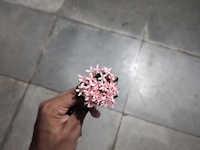
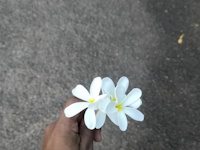
Add files via upload

diff --git a/index.html b/index.html
@@ -73,11 +73,10 @@
         <div id="screen1" class="screen active">
             <div class="content-wrapper">
                 <div class="opening-lines">
-                    <p class="line fade-in-up" style="animation-delay: 0.5s;">Heyyy Sandhya,</p>
-                    <p class="line fade-in-up" style="animation-delay: 1s;"> You were right, it has been 6 years since we met. Today is the day!</p>
-                    <p class="line fade-in-up" style="animation-delay: 1s;">You mean more to me than I can ever put in words or in my poems. I do not expect you to understand them, but please do give a read.</p>
-                    <p class="line fade-in-up" style="animation-delay: 1s;">"If love requires a reason, it dies when the reason dies."</p>
-                    <p class="line fade-in-up" style="animation-delay: 2s;">I love you. 🫂</p>
+                    <p class="line fade-in-up" style="animation-delay: 0.5s;">SANDHYAAAAA,</p>
+                    <p class="line fade-in-up" style="animation-delay: 1s;">Every time you laugh, it feels like the world pauses.</p>
+                    <p class="line fade-in-up" style="animation-delay: 1s;">Every little thing you do makes my day brighter.</p>
+                    <p class="line fade-in-up" style="animation-delay: 2s;">And that’s why I love you so so so much. 🌼🫂</p>
                 </div>
                 <button class="romantic-btn fade-in-up" style="animation-delay: 2.5s;" onclick="showScreen(2)">
                     Continue
@@ -90,21 +89,21 @@
             <div class="content-wrapper">
                 <div class="poem-container">
                     <div class="stanza">
-                        <p class="poem-line">Not fire, not frenzy, </p>
-                        <p class="poem-line">but the hush of morning light.</p>
-                        <p class="poem-line">A promise whispered without noise,</p>
-                        <p class="poem-line">a calm that holds me through the night.</p>
+                        <p class="poem-line">I miss you quietly through the day,</p>
+                        <p class="poem-line">In little moments that slip away.</p>
+                        <p class="poem-line">I care in ways I cannot hide,</p>
+                        <p class="poem-line">A steady warmth, here at your side.</p>
                     </div>
                     <div class="stanza">
-                        <p class="poem-line">A touch that doesn’t need to ask,</p>
-                        <p class="poem-line">just there to say “you’re safe with me.”</p>
-                        <p class="poem-line">No performance, no condition,</p>
-                        <p class="poem-line">just choosing you, endlessly.</p>
+                        <p class="poem-line">Love weaves itself in words unspoken,</p>
+                        <p class="poem-line">In gentle ties that can’t be broken.</p>
+                        <p class="poem-line">No matter how far, or what we do,</p>
+                        <p class="poem-line">My heart finds home when it’s with you.</p>
                     </div>                    
                     
                 </div>
                 <button class="romantic-btn" onclick="showScreen(3)">
-                    hehe
+                    for you <3
                 </button>
             </div>
         </div>
@@ -112,7 +111,7 @@
         <!-- Screen 3: Gift Page -->
         <div id="screen3" class="screen">
             <div class="content-wrapper">
-                <h2 class="gift-header">thoda late hogya pluck karte karte but here</h2>
+                <h2 class="gift-header">These flowers are usually for the gods at home, but today, they’re for you, my goddess.</h2>
                 
                 <div class="flower-gallery">
                     <div class="flower-placeholder">
